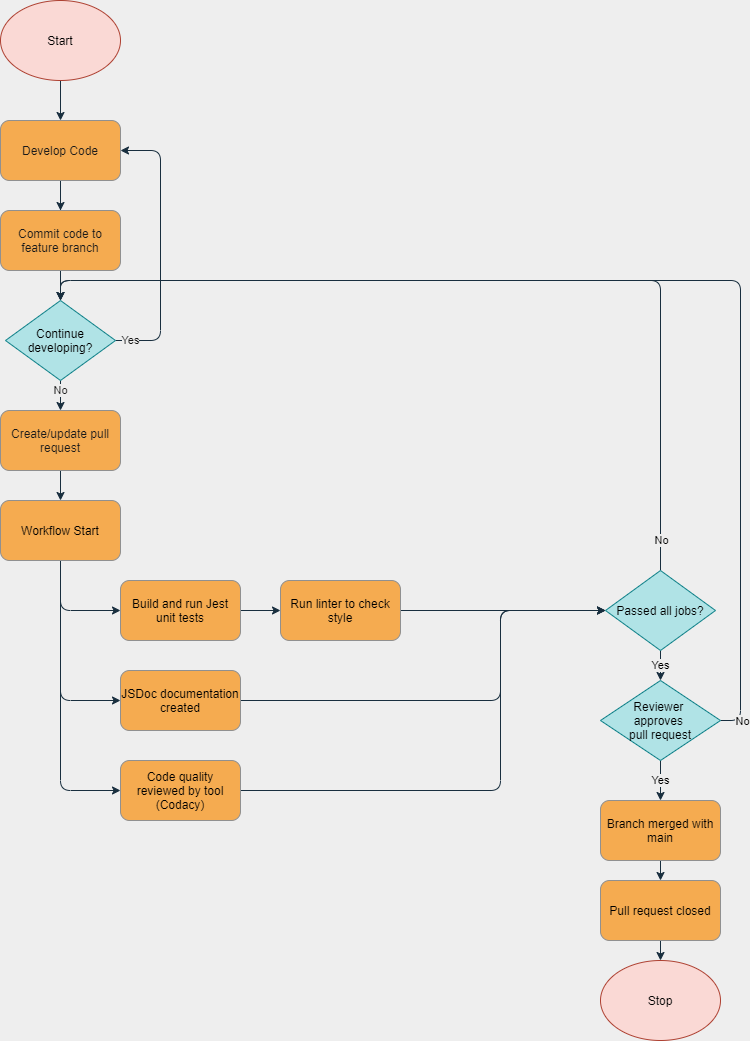
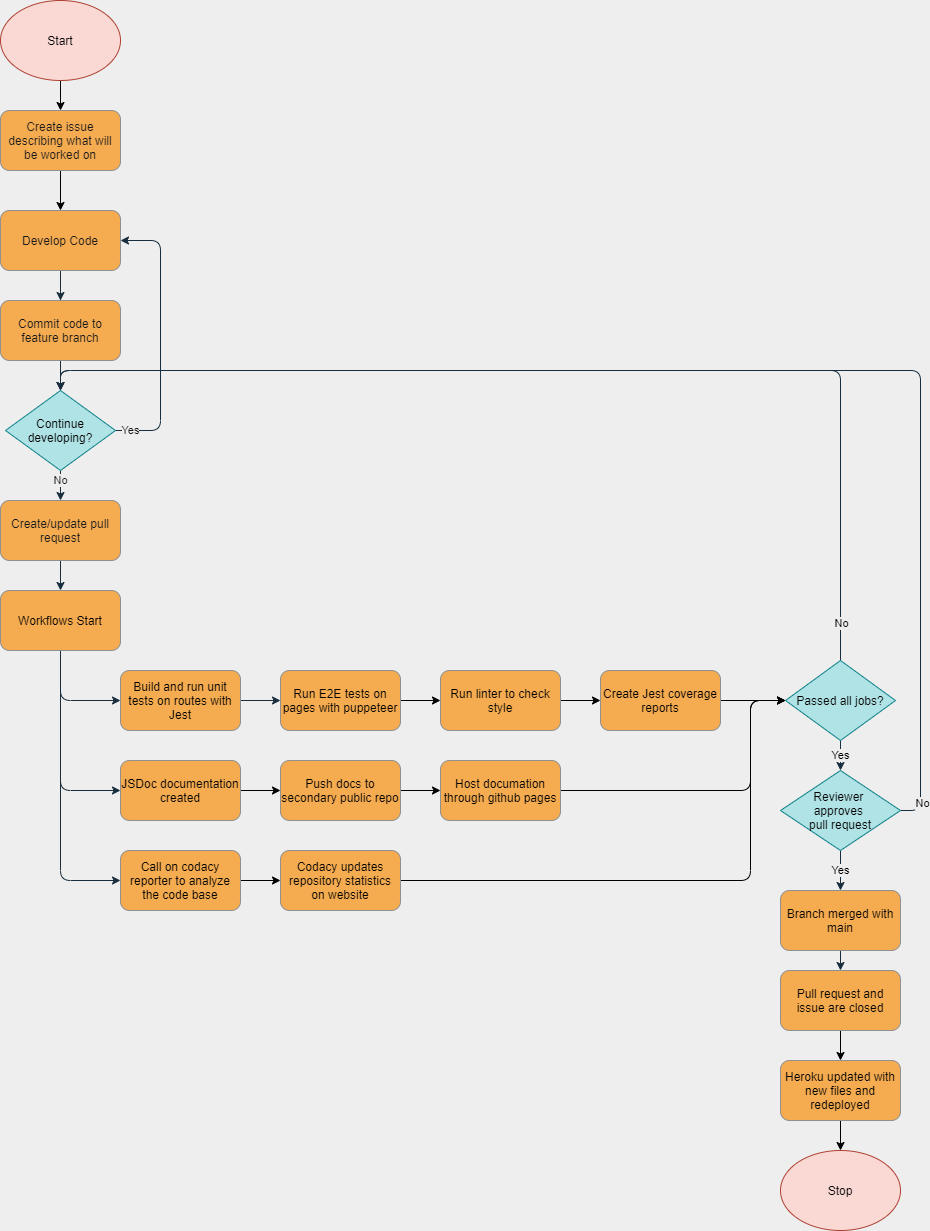
[STRY/QE] Pipeline documentation final update (#185)
* Documented updates since last checkpoint

* Updated diagram to reflect final pipeline

diff --git a/admin/cipipeline/phase1-final.md b/admin/cipipeline/phase1-final.md
@@ -1,0 +1,7 @@
+## Changes made since second checkpoint
+- JSDocs automatically generate documentation is pushed to a second repository that is hosted through GitHub pages. This allows for the documentation to be updated with every pull request, and accessed remotely.
+- Codacy is able to analyze the quality of the code base correctly as well as the testing coverage of all files. This information can be accessed through the codacy website and the information is updated after every pull request and push to main.
+- Unit tests and end-to-end tests have been created to cover many of the core project files through jest and jest+puppeteer.
+- A coverage report from jest unit tests is now included.
+- Various pipeline issues have been fixed, meaning that it more stable and less likely to terminate properly.
+  - An example of an issue that was fixed was that some unit test did not terminate the express server properly, resulting in an indefinite runtime. This has been fixed by adding a timeout and force closing the server if it does not terminate properly in time.
